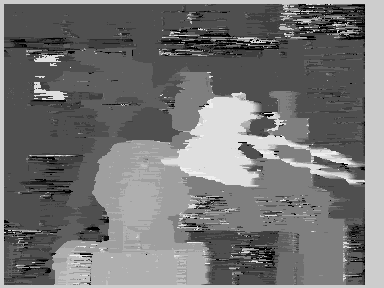
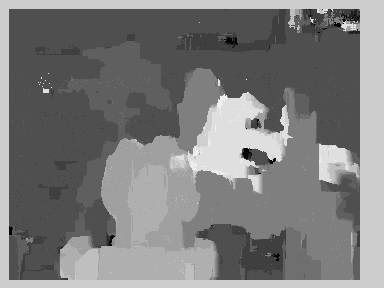
change NCC factor

diff --git a/disparityMap/matching/estimationType.cpp b/disparityMap/matching/estimationType.cpp
@@ -40,13 +40,13 @@ long long int NCCtype::getValue(IplImage* leftImage, IplImage* rightImage, int x
 
 		for (int j = -windowSize; j < windowSize; j++) {
 			num += (long long int)(leftImagePtr[x + j] * rightImagePtr[x + j + d]);
-			denA += (long long int)leftImagePtr[x + j] * leftImagePtr[x + j];
-			denB += (long long int)rightImagePtr[x + j + d] * rightImagePtr[x + j + d];
+			denA += (long long int)(leftImagePtr[x + j] * leftImagePtr[x + j]);
+			denB += (long long int)(rightImagePtr[x + j + d] * rightImagePtr[x + j + d]);
 		}
 	}
 	NCC = (float)(num * num) / denA / denB;
 
-	return (long long int)(NCC * 10);
+	return (long long int)(100000 - NCC * 100000);
 }
 
 long long int SIMDintrinsicSSDtype::getValue(IplImage* leftImage, IplImage* rightImage, int x, int y, int windowSize, int d) {

diff --git a/disparityMap/matching/main.cpp b/disparityMap/matching/main.cpp
@@ -14,7 +14,7 @@ void showImageAndStop(IplImage* image) {
 int main() {
 	const std::string leftImagePath = "tsukuba_l.png";
 	const std::string rightImagePath = "tsukuba_r.png";
-	DisparityMapMaker maker(leftImagePath, rightImagePath, 3, 16, new SIMDintrinsicSSDtype());
+	DisparityMapMaker maker(leftImagePath, rightImagePath, 8, 16, new NCCtype());
 
 	TimePrinter time;
 	IplImage* disparityMap(maker.getDisparityMapPtr());
@@ -22,6 +22,7 @@ int main() {
 
 	cvSaveImage("matching.png", disparityMap);
 	showImageAndStop(disparityMap);
+	maker.deleteMap();
 
 	return 0;
 }

diff --git a/disparityMap/matching/disparityMapMakerImpl.h b/disparityMap/matching/disparityMapMakerImpl.h
@@ -11,6 +11,7 @@ public:
 	DisparityMapMakerImpl(const std::string leftImagePath, const std::string rightImagePath, const int& windowSize, const int& dRange, IEstimationType* type);
 	~DisparityMapMakerImpl();
 	IplImage* getDisparityMapPtr();
+	void deleteMap();
 
 private:
 	const std::unique_ptr<IEstimationType> pEstimationType;
@@ -19,6 +20,7 @@ private:
 	IplImage* disparityMap;
 	int windowSize;
 	int dRange;
+	bool isMapDeleted;
 
 	long long int getDisparityValue(const int& x, const int& y);
 	bool isSameImageSize();

diff --git a/disparityMap/matching/disparityMapMaker.h b/disparityMap/matching/disparityMapMaker.h
@@ -12,6 +12,7 @@ class DisparityMapMaker {
 public:
 	DisparityMapMaker(const std::string leftImagePath, const std::string rightImagePath, const int& windowSize, const int& dRange, IEstimationType* type);
 	IplImage* getDisparityMapPtr();
+	void deleteMap();
 
 private:
 	const std::shared_ptr<DisparityMapMakerImpl> pImpl;

diff --git a/disparityMap/matching/disparityMapMaker.cpp b/disparityMap/matching/disparityMapMaker.cpp
@@ -11,3 +11,7 @@ DisparityMapMaker::DisparityMapMaker(const std::string leftImagePath, const std:
 IplImage* DisparityMapMaker::getDisparityMapPtr() {
 	return pImpl->getDisparityMapPtr();
 }
+
+void DisparityMapMaker::deleteMap() {
+	pImpl->deleteMap();
+}
